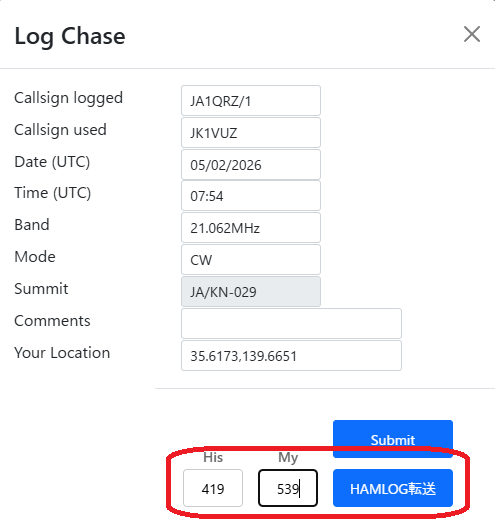
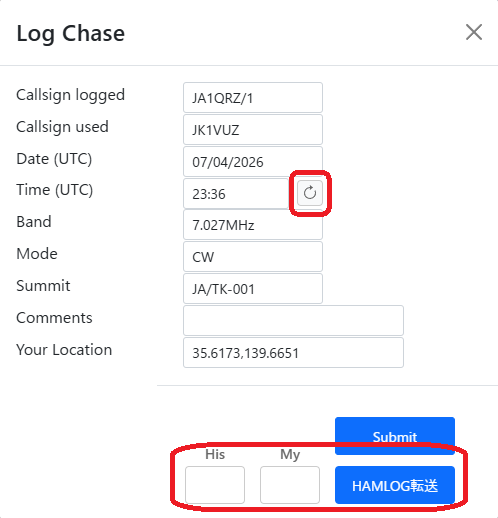
V1.7

diff --git a/SOTAWatch2Hamlog/content.js b/SOTAWatch2Hamlog/content.js
@@ -91,6 +91,66 @@ function injectButton() {
     const hisSet = createRstBox('His', 'hamlog-his');
     const mySet = createRstBox('My', 'hamlog-my');
 
+	// 時刻更新ボタンを追加
+	const dateInput = modal.querySelector('input#date');
+	const timeInput = modal.querySelector('input#time');
+
+	if (dateInput && timeInput && !document.getElementById('update-time-btn')) {
+	    const timeUpdateBtn = document.createElement('button');
+	    timeUpdateBtn.id = 'update-time-btn';
+	    timeUpdateBtn.type = 'button';
+
+	    // 更新ボタンアイコン (SVG)
+	    timeUpdateBtn.innerHTML = `
+	        <svg xmlns="http://www.w3.org/2000/svg" width="16" height="16" fill="currentColor" viewBox="0 0 16 16">
+	          <path fill-rule="evenodd" d="M8 3a5 5 0 1 0 4.546 2.914.5.5 0 0 1 .908-.417A6 6 0 1 1 8 2v1z"/>
+	          <path d="M8 4.466V.534a.25.25 0 0 1 .41-.192l2.36 1.966c.12.1.12.284 0 .384L8.41 4.658A.25.25 0 0 1 8 4.466z"/>
+	        </svg>
+	    `;
+	    
+		timeUpdateBtn.style.cssText = `
+	        margin-left: 8px;
+	        padding: 4px;
+	        display: flex;
+	        align-items: center;
+	        justify-content: center;
+	        background-color: #f8f9fa;
+	        color: #666;
+	        border: 1px solid #ccc;
+	        border-radius: 4px;
+	        cursor: pointer;
+	        transition: background-color 0.2s;
+	    `;
+	    
+	    // ホバー時の効果
+	    timeUpdateBtn.onmouseover = () => { timeUpdateBtn.style.backgroundColor = '#e2e6ea'; };
+	    timeUpdateBtn.onmouseout = () => { timeUpdateBtn.style.backgroundColor = '#f8f9fa'; };
+
+	    timeUpdateBtn.onclick = (e) => {
+	        e.preventDefault();
+	        const now = new Date(); // ブラウザ実行時の現在時刻
+            const YY = now.getUTCFullYear();
+            const MM = (now.getUTCMonth() + 1).toString().padStart(2, '0');
+            const DD = now.getUTCDate().toString().padStart(2, '0');
+			const hh = now.getUTCHours().toString().padStart(2, '0');   // 時(UTC)
+			const mm = now.getUTCMinutes().toString().padStart(2, '0'); // 分(UTC)
+
+	        // 日付 (UTC) の更新: DD/MM/YYYY
+            dateInput.value = `${DD}/${MM}/${YY}`;
+            dateInput.dispatchEvent(new Event('input', { bubbles: true }));
+
+	        // 時刻 (UTC) の更新: HH:MM
+			timeInput.value = `${hh}:${mm}`;
+	        timeInput.dispatchEvent(new Event('input', { bubbles: true }));
+	    };
+
+	    // TIME入力欄の親要素を調整してボタンを配置
+	    const timeContainer = timeInput.parentNode;
+	    timeContainer.style.display = 'flex';
+	    timeContainer.style.alignItems = 'center';
+	    timeContainer.appendChild(timeUpdateBtn);
+	}
+
     // HAMLOG転送ボタンの作成
     const btn = document.createElement('button');
     btn.id = 'hamlog-btn';
